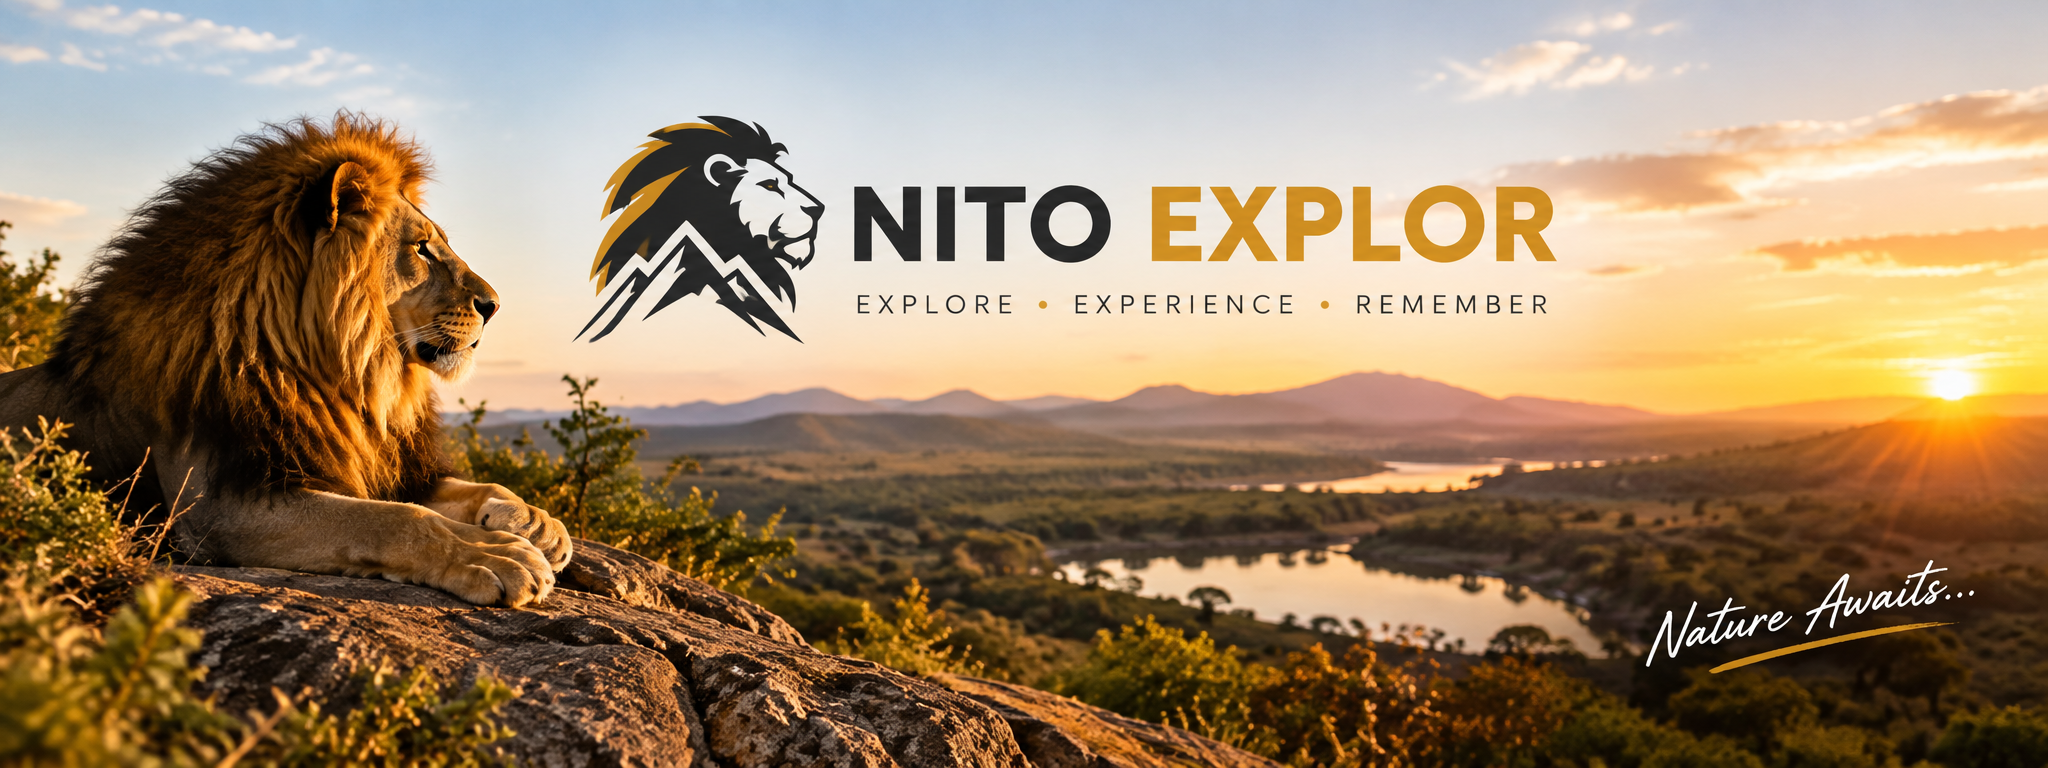
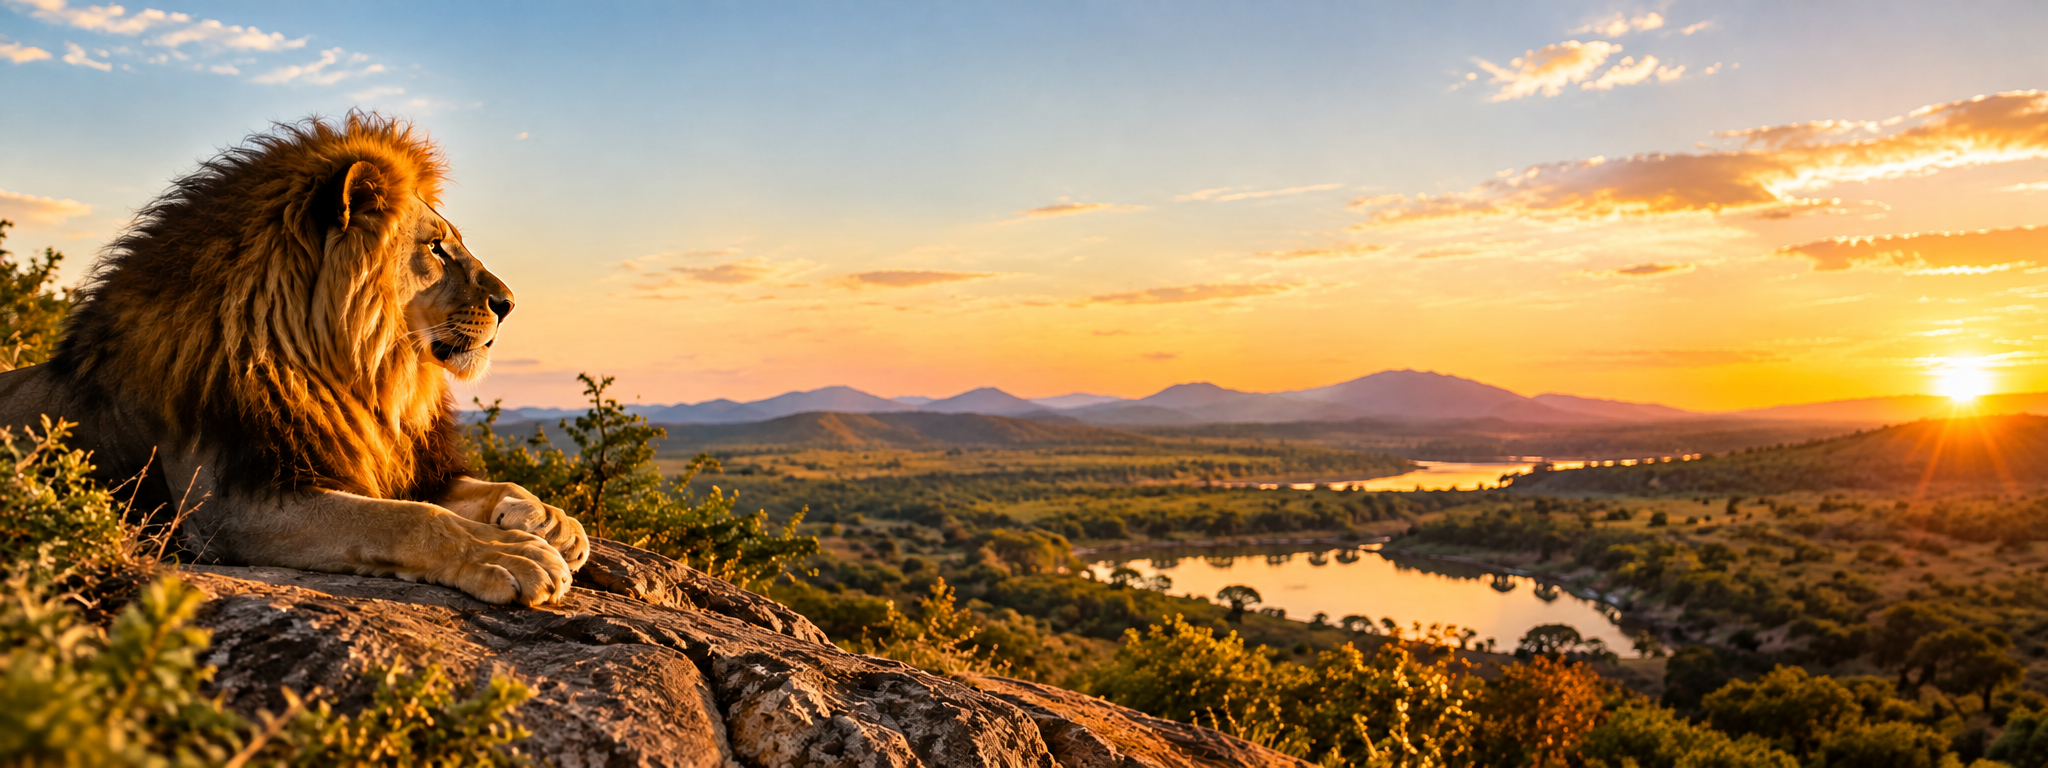
Add files via upload

diff --git a/index.html b/index.html
@@ -126,8 +126,8 @@
 
         <section class="about section" id="about">
             <div class="container split-section">
-                <div class="image-placeholder large">
-                    <span>CLIENT IMAGE<br>ABOUT THE PARK</span>
+                <div class="about-image">
+                    <img src="assets/about-park.png" alt="NITO EXPLOR wildlife park">
                 </div>
                 <div class="about-copy">
                     <p class="eyebrow">ABOUT THE PARK</p>
@@ -274,9 +274,15 @@
 
         <section class="booking section" id="book">
             <div class="container booking-panel">
+
                 <div>
                     <p class="eyebrow">READY TO EXPLORE?</p>
-                    <h2>Book your visit<br><em>with NITO EXPLOR.</em></h2>
+
+                    <h2>
+                        Book your visit<br>
+                        <em>with NITO EXPLOR.</em>
+                    </h2>
+
                     <p>
                         Bookings are handled directly by phone. Call the park to
                         check availability, tour options and current prices.
@@ -284,6 +290,7 @@
                 </div>
 
                 <div class="contact-card">
+
                     <span class="contact-label">PHONE BOOKINGS</span>
 
                     <a class="contact-value" href="tel:+27730678577">
@@ -297,6 +304,7 @@
                     </a>
 
                     <div class="contact-actions">
+
                         <a class="btn btn-gold" href="tel:+27730678577">
                             Call to Book
                         </a>
@@ -304,8 +312,12 @@
                         <a class="btn btn-dark" href="mailto:nitoexplor@gmail.com">
                             Email Us
                         </a>
+
                     </div>
+
                 </div>
+
+            </div>
         </section>
     </main>
 

diff --git a/styles.css b/styles.css
@@ -172,6 +172,7 @@ p {
 }
 
 /* Hero */
+/* Hero */
 .hero {
     min-height: 100vh;
     position: relative;
@@ -179,20 +180,30 @@ p {
     align-items: center;
     color: #fff;
     overflow: hidden;
-    background:
-        radial-gradient(circle at 72% 40%, rgba(201, 151, 45, .28), transparent 28%),
-        linear-gradient(120deg, #071b17 15%, #123d32 58%, #1b5142 100%);
+
+    background-image: url("assets/lion-park-banner.png");
+    background-size: cover;
+    background-position: center center;
+    background-repeat: no-repeat;
+    background-color: var(--green-deep);
 }
 
-/* When the client's banner arrives, use:
-   background-image: url('assets/lion-park-banner.jpg'); */
+/* Dark overlay so the text remains easy to read */
 .hero::after {
     content: "";
     position: absolute;
     inset: 0;
+
     background:
-        linear-gradient(90deg, rgba(7, 27, 23, .94) 0%, rgba(7, 27, 23, .68) 42%, rgba(7, 27, 23, .18) 100%),
-        radial-gradient(circle at 75% 55%, transparent 0 20%, rgba(7, 27, 23, .22) 58%, rgba(7, 27, 23, .62) 100%);
+        linear-gradient(
+            90deg,
+            rgba(7, 27, 23, .88) 0%,
+            rgba(7, 27, 23, .58) 38%,
+            rgba(7, 27, 23, .18) 68%,
+            rgba(7, 27, 23, .05) 100%
+        );
+
+    pointer-events: none;
 }
 
 .hero-content {
@@ -200,6 +211,8 @@ p {
     z-index: 2;
     padding-top: 90px;
     max-width: 900px;
+    margin-left: auto;
+    margin-right: 0;
 }
 
 .hero h1 em {
@@ -809,4 +822,17 @@ p {
     color: var(--green);
 
     padding-left: 10px;
+}
+
+.about-image {
+    min-height: 480px;
+    overflow: hidden;
+}
+
+.about-image img {
+    width: 100%;
+    height: 100%;
+    min-height: 480px;
+    object-fit: cover;
+    display: block;
 }
